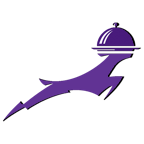
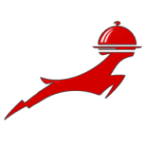
Styling

Changed region(s): [[0.0278, 0.1389, 1.0, 0.8333], [0.0, 0.8333, 0.0278, 0.8611]]

diff --git a/src/components/QuickScreens/IncomingOrders.js b/src/components/QuickScreens/IncomingOrders.js
@@ -1,0 +1,45 @@
+import React from 'react';
+
+export default class IncomingOrders extends React.Component {
+
+    render() {
+        return (
+            <div className="flexDisplay fillHeight">             
+                <div className="restaurantTop">
+                    <div className="header">
+                        <i className="icon material-icons-round" onClick={this.props.onBack}>arrow_back_ios</i>
+                        <span className="screenTitle">Incoming Orders</span>
+                    </div>
+                </div>
+
+                <div class="incomingOrderList">
+                    <div class="incomingOrder">
+                        <div class="orderTitle">Chick Fil A</div>
+                        <div class="orderInfo">Jerome Hall</div>
+                    </div>
+                    <div class="incomingOrder">
+                        <div class="orderTitle">Chick Fil A</div>
+                        <div class="orderInfo">Jerome Hall</div>
+                    </div>
+                    <div class="incomingOrder">
+                        <div class="orderTitle">Chick Fil A</div>
+                        <div class="orderInfo">Jerome Hall</div>
+                    </div>
+                    <div class="incomingOrder">
+                        <div class="orderTitle">Chick Fil A</div>
+                        <div class="orderInfo">Jerome Hall</div>
+                    </div>
+                    <div class="incomingOrder">
+                        <div class="orderTitle">Chick Fil A</div>
+                        <div class="orderInfo">Jerome Hall</div>
+                    </div>
+                    <div class="incomingOrder">
+                        <div class="orderTitle">Chick Fil A</div>
+                        <div class="orderInfo">Jerome Hall</div>
+                    </div>
+                </div>
+            </div>
+        );
+    }
+
+}

diff --git a/src/components/ScreenHandler.js b/src/components/ScreenHandler.js
@@ -12,6 +12,7 @@ import HomeScreen from './HomeScreen';
 import RestaurantsList from './QuickScreens/RestaurantsList';
 import RestaurantDetails from './QuickScreens/RestaurantDetails';
 import OrderTracker from './QuickScreens/OrderTracker';
+import IncomingOrders from './QuickScreens/IncomingOrders';
 import CheckoutScreen from './OrderProcess/CheckoutScreen';
 import DeliveryDetails from './OrderProcess/DeliveryDetails';
 import Cart from './Cart';
@@ -39,7 +40,7 @@ export default class ScreenHandler extends React.Component {
             currentRestaurant: null,
             currentMenu: null,
             // screen: "Login",
-            screen: "Login",
+            screen: "IncomingOrders",
             baseScreen: "Login",
             screenHistory: ["Login"]
         };
@@ -261,6 +262,7 @@ export default class ScreenHandler extends React.Component {
                 this.setScreen("Message");
             }}/>,
             Message: <MessageScreen messageListener={this.props.messageListener} apiToken={this.state.apiToken} orderId={this.state.orderId} onBack={this.backScreen}/>,
+            IncomingOrders: <IncomingOrders/>,
         }
         console.log(this.state);
         console.log("token: " + this.props.fbToken);

diff --git a/src/App.css b/src/App.css
@@ -15,10 +15,10 @@
 }
 
 :root {
-  --primary: #522398;
-  --secondary: #754db1;
+  --primary: #d50202;
+  --secondary: #fc3232;
   --light-grey: #ddd;
-  --placeholder: #a188ca;
+  --placeholder: #f97c7c;
 }
 
 body {
@@ -1378,7 +1378,7 @@ input:-webkit-autofill:active {
 
 .messageContainer.right .messageBubble {
   float: right;
-  background-color: #8472FC;
+  background-color: var(--placeholder);
   color: white;
 }
 
@@ -1402,3 +1402,20 @@ input:-webkit-autofill:active {
 .messageContainer {
   overflow: auto;
 } 
+
+.incomingOrderList {
+  overflow-y: scroll;
+}
+
+.incomingOrder {
+  padding: 0.6em 1em;
+}
+
+.orderTitle {
+  margin-bottom: 0.3em;
+}
+
+.orderInfo {
+  font-size: 0.9em;
+  color: gray;
+}
